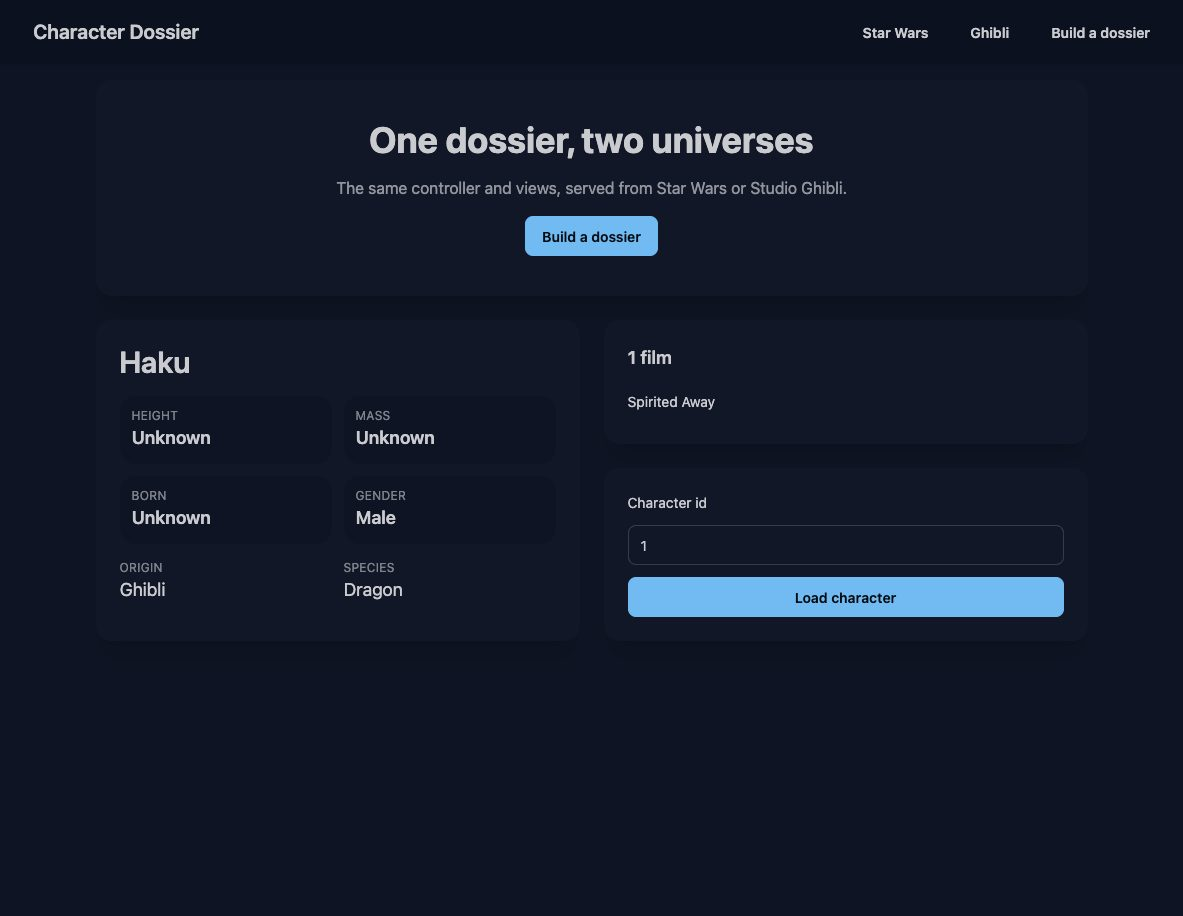
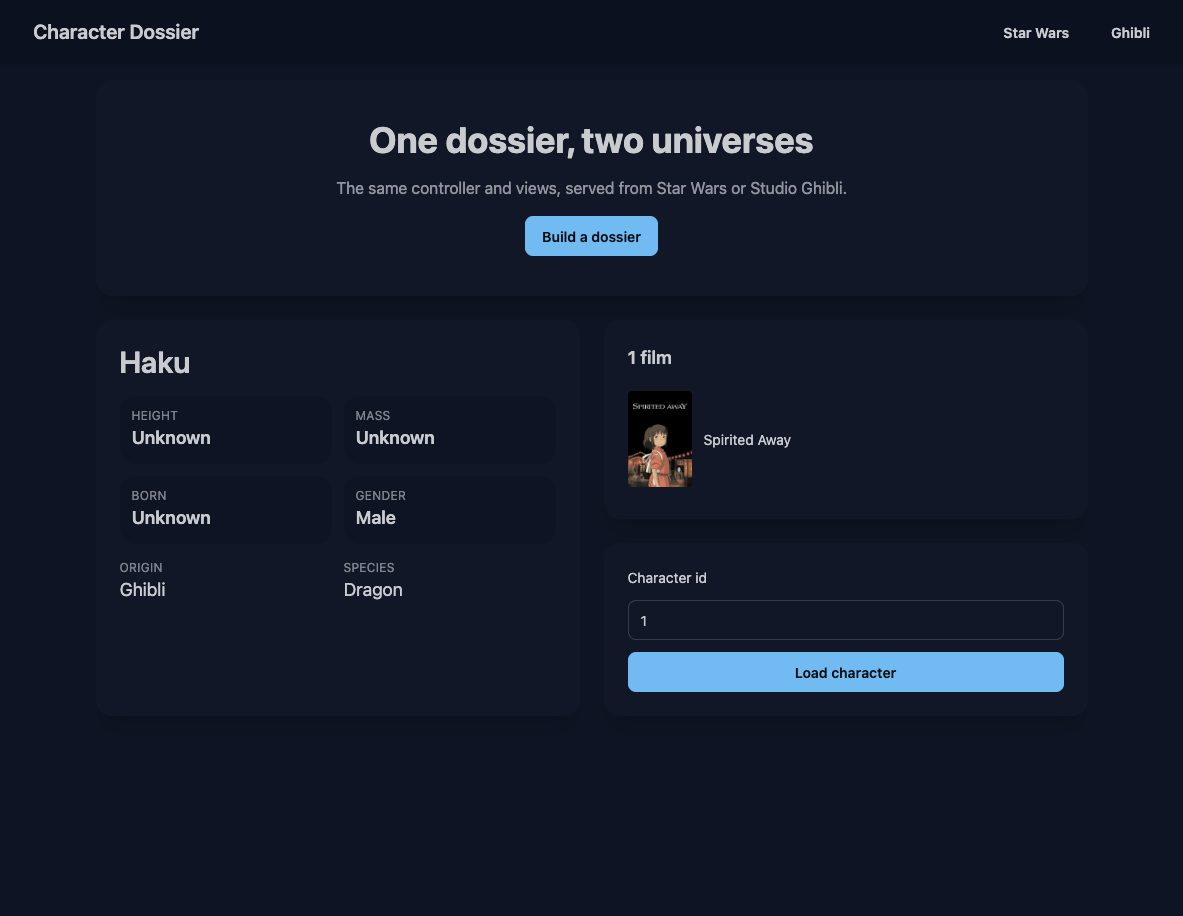
feat: render Ghibli film posters from the API
Carry an optional Film.imageUrl through the domain and view models. The Ghibli
adapter fills it from the film image field; SWAPI has no image field, so the
shared views render a poster only when the data supplies one. The poster appears
in the film list, funnel choices, review, and results, and the Ghibli screenshot
is refreshed.

diff --git a/src/components/Funnel/Funnel.test.tsx b/src/components/Funnel/Funnel.test.tsx
@@ -21,6 +21,13 @@ const i18n = makeEn();
 const person = makePersonViewModel(i18n, luke);
 const film = person.films[0];
 const transport = person.transports[0];
+const illustratedPerson = makePersonViewModel(i18n, {
+  ...luke,
+  films: [
+    { ...luke.films[0], imageUrl: "https://example.com/poster.jpg" },
+    luke.films[1],
+  ],
+});
 const choice = PersonChoiceViewModel.make({
   id: "1",
   name: "Luke Skywalker",
@@ -74,6 +81,14 @@ describe("Funnel", () => {
     expect(idle).toContain("Choose character");
   });
 
+  it("renders a film poster in the film choices", () => {
+    const html = render(
+      makeFunnelFilmViewModel(i18n, illustratedPerson),
+    );
+
+    expect(html).toContain("poster.jpg");
+  });
+
   it("renders the film choices", () => {
     const html = render(makeFunnelFilmViewModel(i18n, person));
 
@@ -115,6 +130,19 @@ describe("Funnel", () => {
 
     expect(html).toContain("No transport");
     expect(html).toContain('value="none"');
+  });
+
+  it("renders a film poster in the review", () => {
+    const html = render(
+      makeFunnelReviewViewModel(
+        i18n,
+        illustratedPerson,
+        illustratedPerson.films[0],
+        transport,
+      ),
+    );
+
+    expect(html).toContain("poster.jpg");
   });
 
   it("renders the review with a transport", () => {

diff --git a/src/components/FilmListItem/FilmListItem.tsx b/src/components/FilmListItem/FilmListItem.tsx
@@ -5,6 +5,7 @@ export const FilmListItemViewModel = Schema.TaggedStruct(
   {
     order: Schema.Int,
     text: Schema.NonEmptyString,
+    imageUrl: Schema.optional(Schema.String),
   },
 );
 export type FilmListItemViewModel = typeof FilmListItemViewModel.Type;
@@ -12,6 +13,7 @@ export type FilmListItemViewModel = typeof FilmListItemViewModel.Type;
 export const FilmListItemInput = Schema.Struct({
   title: Schema.NonEmptyString,
   order: Schema.Int,
+  imageUrl: Schema.optional(Schema.String),
 });
 export type FilmListItemInput = typeof FilmListItemInput.Type;
 
@@ -19,10 +21,21 @@ export const makeFilmListItemViewModel = (film: FilmListItemInput) =>
   FilmListItemViewModel.make({
     order: film.order,
     text: film.title,
+    ...(film.imageUrl === undefined ? {} : { imageUrl: film.imageUrl }),
   });
 
 export type FilmListItemProps = FilmListItemViewModel;
 
 export const FilmListItem = (model: FilmListItemProps) => (
-  <li className="py-2">{model.text}</li>
+  <li className="flex items-center gap-3 py-2">
+    {model.imageUrl === undefined ? null : (
+      <img
+        src={model.imageUrl}
+        alt=""
+        className="h-24 w-16 rounded object-cover"
+        loading="lazy"
+      />
+    )}
+    <span>{model.text}</span>
+  </li>
 );

diff --git a/src/components/Funnel/Funnel.tsx b/src/components/Funnel/Funnel.tsx
@@ -318,6 +318,14 @@ const FilmStep = ({
               className="radio radio-primary"
               required
             />
+            {film.imageUrl === undefined ? null : (
+              <img
+                src={film.imageUrl}
+                alt=""
+                className="h-16 w-12 rounded object-cover"
+                loading="lazy"
+              />
+            )}
             <span className="font-semibold">{film.text}</span>
           </label>
         ))}
@@ -386,6 +394,14 @@ const ReviewStep = ({ step }: { readonly step: FunnelReviewViewModel }) => (
         <dt className="text-xs uppercase tracking-wide opacity-60">
           {step.filmLabel}
         </dt>
+        {step.film.imageUrl === undefined ? null : (
+          <img
+            src={step.film.imageUrl}
+            alt=""
+            className="my-2 h-28 w-20 rounded object-cover"
+            loading="lazy"
+          />
+        )}
         <dd className="text-lg">{step.film.text}</dd>
       </div>
       <div>

diff --git a/src/components/FilmListItem/FilmListItem.test.ts b/src/components/FilmListItem/FilmListItem.test.ts
@@ -1,6 +1,11 @@
 import { it } from "@effect/vitest";
+import { renderToStaticMarkup } from "react-dom/server";
 import { describe, expect } from "vitest";
-import { makeFilmListItemViewModel } from "./FilmListItem";
+import {
+  FilmListItem,
+  FilmListItemViewModel,
+  makeFilmListItemViewModel,
+} from "./FilmListItem";
 
 describe("makeFilmListItemViewModel", () => {
   it("formats a film for the list", () => {
@@ -14,5 +19,21 @@ describe("makeFilmListItemViewModel", () => {
       order: 4,
       text: "A New Hope",
     });
+  });
+});
+
+describe("FilmListItem", () => {
+  it("renders a poster when the film has one", () => {
+    const html = renderToStaticMarkup(
+      FilmListItem(
+        FilmListItemViewModel.make({
+          order: 4,
+          text: "A New Hope",
+          imageUrl: "https://example.com/poster.jpg",
+        }),
+      ),
+    );
+
+    expect(html).toContain("poster.jpg");
   });
 });

diff --git a/src/services/GhibliPeopleCatalog.test.ts b/src/services/GhibliPeopleCatalog.test.ts
@@ -27,10 +27,12 @@ const people: ReadonlyArray<GhibliPersonResponse> = [
 const films: ReadonlyArray<GhibliFilmResponse> = [
   {
     title: "Spirited Away",
+    image: "https://example.com/spirited-away.jpg",
     url: "https://ghibliapi.vercel.app/films/spirited-away",
   },
   {
     title: "Castle in the Sky",
+    image: "https://example.com/castle-in-the-sky.jpg",
     url: "https://ghibliapi.vercel.app/films/castle-in-the-sky",
   },
 ];
@@ -67,7 +69,12 @@ describe("GhibliPeopleCatalog", () => {
         transports: [],
       });
       expect(person.films).toEqual([
-        { _tag: "Film", title: "Spirited Away", order: 1 },
+        {
+          _tag: "Film",
+          title: "Spirited Away",
+          order: 1,
+          imageUrl: "https://example.com/spirited-away.jpg",
+        },
       ]);
     }),
   );

diff --git a/src/components/Results/Results.test.tsx b/src/components/Results/Results.test.tsx
@@ -33,6 +33,20 @@ describe("Results", () => {
     expect(html).toContain("Back home");
   });
 
+  it("renders a film poster when the film has one", () => {
+    const illustratedFilm = {
+      ...film,
+      imageUrl: "https://example.com/poster.jpg",
+    };
+    const html = renderToStaticMarkup(
+      <Results
+        {...makeResultsReadyViewModel(i18n, person, illustratedFilm, transport)}
+      />,
+    );
+
+    expect(html).toContain("poster.jpg");
+  });
+
   it("renders a dossier without a transport", () => {
     const model = makeResultsReadyViewModel(i18n, person, film, null);
     const html = renderToStaticMarkup(<Results {...model} />);

diff --git a/src/services/GhibliPeopleCatalog.layer.test.ts b/src/services/GhibliPeopleCatalog.layer.test.ts
@@ -18,6 +18,7 @@ const people = [
 const films = [
   {
     title: "Spirited Away",
+    image: "https://example.com/spirited-away.jpg",
     url: "https://ghibliapi.vercel.app/films/spirited-away",
   },
 ];
@@ -60,7 +61,12 @@ describe("GhibliPeopleCatalog layer", () => {
         species: { name: "Dragon" },
       });
       expect(person.films).toEqual([
-        { _tag: "Film", title: "Spirited Away", order: 1 },
+        {
+          _tag: "Film",
+          title: "Spirited Away",
+          order: 1,
+          imageUrl: "https://example.com/spirited-away.jpg",
+        },
       ]);
     }),
   );

diff --git a/src/components/Results/Results.tsx b/src/components/Results/Results.tsx
@@ -81,6 +81,14 @@ const ReadyResults = ({ model }: { readonly model: ResultsReadyViewModel }) => (
       <section className="card bg-base-100 shadow-xl">
         <div className="card-body">
           <h2 className="card-title">{model.filmLabel}</h2>
+          {model.film.imageUrl === undefined ? null : (
+            <img
+              src={model.film.imageUrl}
+              alt=""
+              className="mb-3 h-40 w-28 rounded-box object-cover"
+              loading="lazy"
+            />
+          )}
           <p className="text-lg">{model.film.text}</p>
         </div>
       </section>

diff --git a/src/services/GhibliPeopleCatalog.factory.ts b/src/services/GhibliPeopleCatalog.factory.ts
@@ -89,7 +89,13 @@ export const make = (ghibli: GhibliSource) => {
         const film = films.find((candidate) => candidate.url === url);
         return film === undefined
           ? []
-          : [Film.make({ title: film.title, order: index + 1 })];
+          : [
+              Film.make({
+                title: film.title,
+                order: index + 1,
+                imageUrl: film.image,
+              }),
+            ];
       });
 
       const matchedSpecies =

diff --git a/src/services/GhibliApi.ts b/src/services/GhibliApi.ts
@@ -16,6 +16,7 @@ export type GhibliPersonResponse = typeof GhibliPersonResponse.Type;
 
 export const GhibliFilmResponse = Schema.Struct({
   title: Schema.NonEmptyString,
+  image: Schema.optional(Schema.String),
   url: Schema.String,
 });
 export type GhibliFilmResponse = typeof GhibliFilmResponse.Type;

diff --git a/src/domain/FilmUniverse.model.ts b/src/domain/FilmUniverse.model.ts
@@ -18,6 +18,7 @@ export type CharacterId = typeof CharacterId.Type;
 export const Film = Schema.TaggedStruct("Film", {
   title: Schema.NonEmptyString,
   order: Schema.Int,
+  imageUrl: Schema.optional(Schema.String),
 });
 export type Film = typeof Film.Type;
 

diff --git a/README.md b/README.md
@@ -49,6 +49,10 @@ experiences; each home's CTA enters its own funnel.
 - `FilmUniverse.model.ts` uses universe-neutral terms: `Person`, `Film` with an
   `order`, `Origin`, `Species`, `Transport`. A film is a film in either
   universe; its order is an episode number or a list position.
+- `Film.imageUrl` is optional. The Ghibli adapter fills it from the film
+  API's `image` field; SWAPI has no image field, so Star Wars leaves it empty.
+  The shared film list, funnel choices, review, and results render the poster
+  only when it exists.
 - `makeNextPage` is the Next boundary adapter. It awaits `searchParams`, takes
   the first value of repeated query keys, and decodes the result with a schema.
   The page module receives `Option<Params>`; an invalid query renders its
